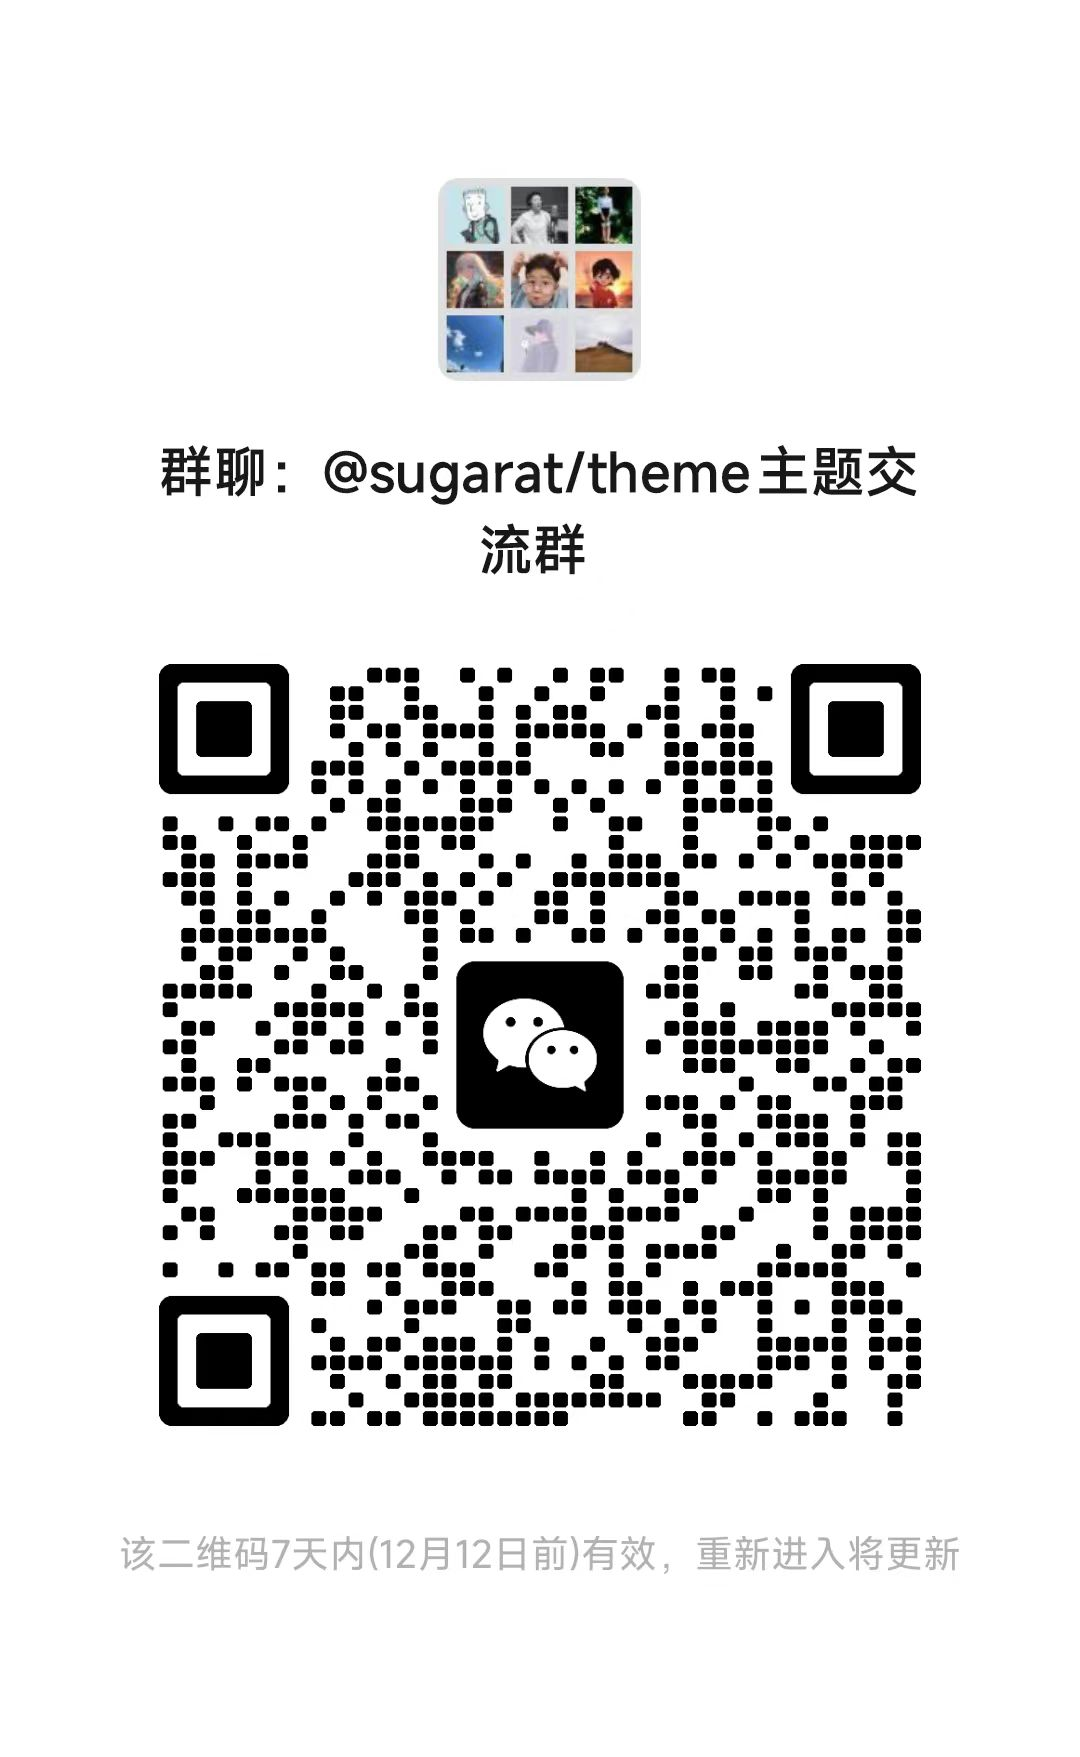
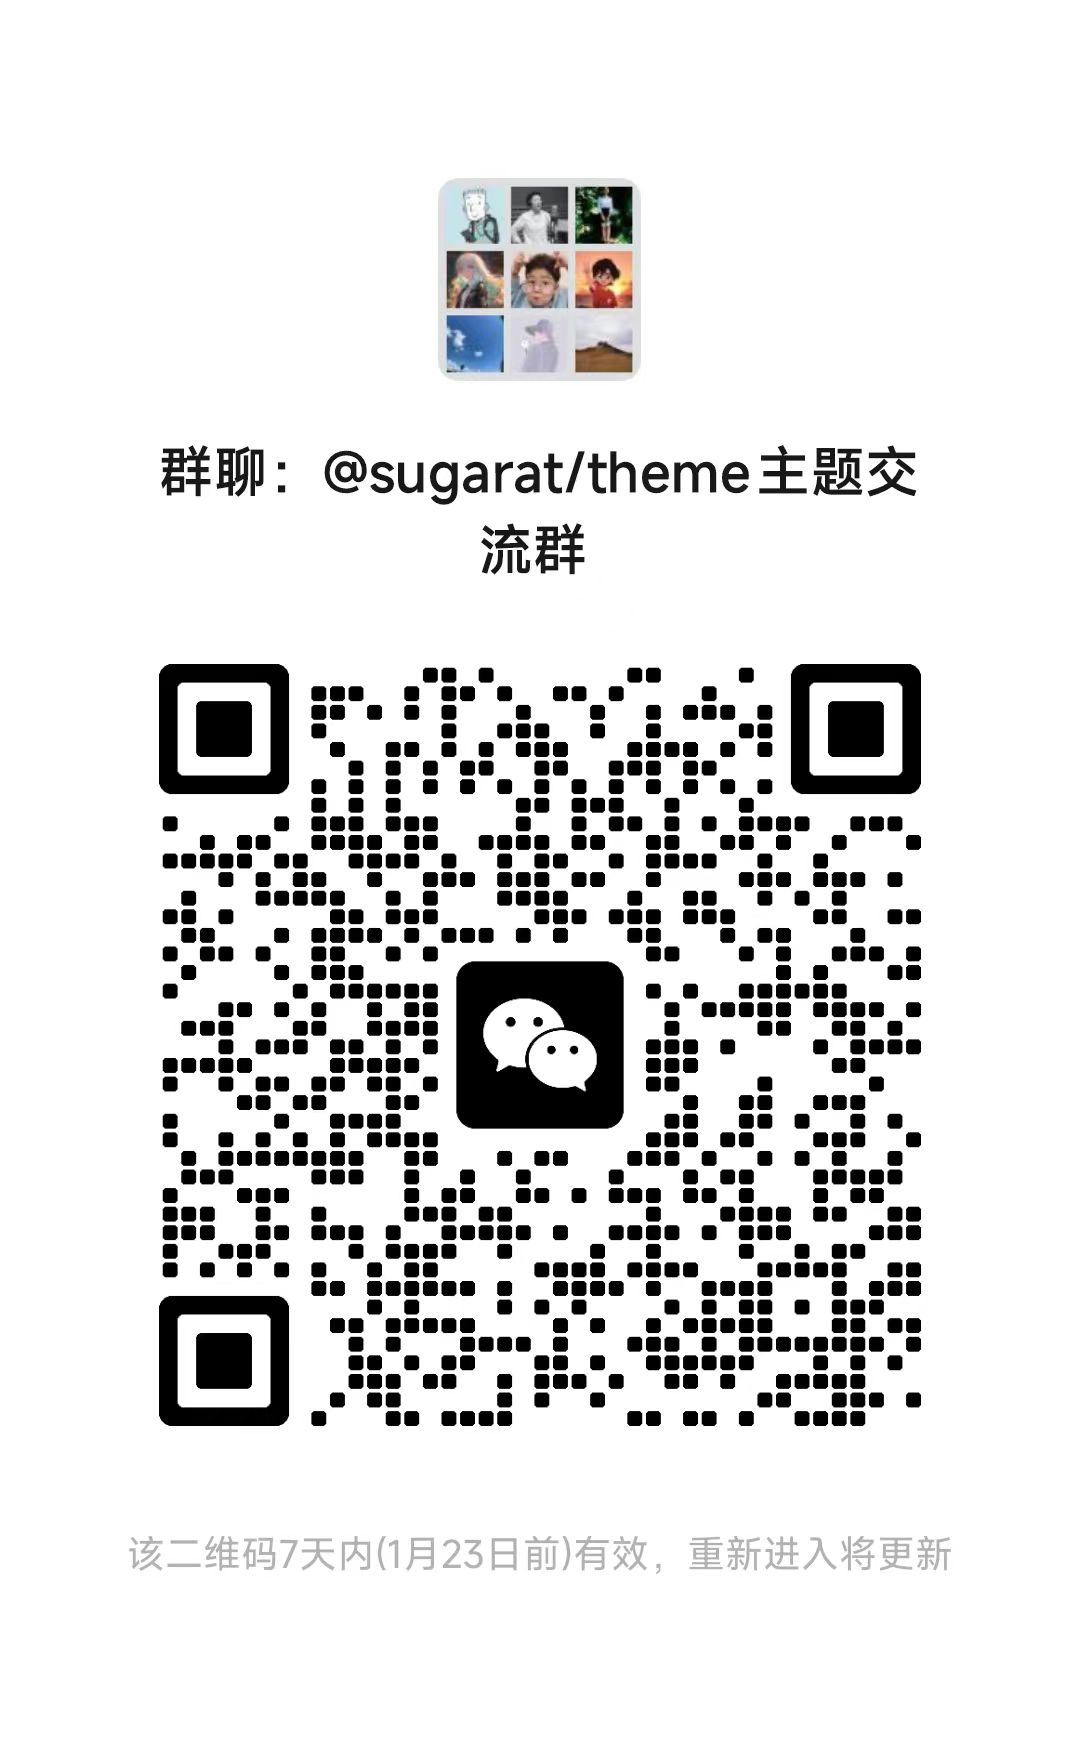
doc: 二维码更新

diff --git a/packages/blogpress/.vitepress/config.ts b/packages/blogpress/.vitepress/config.ts
@@ -61,11 +61,20 @@ const blogTheme = getThemeConfig({
       },
       {
         type: 'text',
-        content: '欢迎大家私信交流'
+        content: '欢迎大家私信&加群交流'
       },
       {
-        type: 'text',
-        content: '备注”加群“拉你一起学习'
+        type: 'button',
+        content: '关于作者',
+        link: '/aboutme'
+      },
+      {
+        type: 'button',
+        content: '加群交流',
+        props: {
+          type: 'success'
+        },
+        link: '/group',
       }
     ],
     duration: -1

diff --git a/packages/blogpress/aboutme.md b/packages/blogpress/aboutme.md
@@ -1,4 +1,5 @@
 ---
+sidebar: false
 title: 关于自己
 date: 2021-12-11
 cover: https://sugarat.top/mp-code.png
@@ -6,23 +7,30 @@ tags:
  - 其它
 ---
 
-# 关于自己
+# 关于我
 
 ---
 
 99年出生，标准的理工男一枚,毕业于([西南石油大学](https://www.swpu.edu.cn/)),热爱开源与知识分享
 
-目前就职于 🛵**美团**🛵 (前端打杂)
+目前就职于 🛵**美团**🛵
 
-## :sparkles:当下
 ![图片](https://img.cdn.sugarat.top/mdImg/MTYwNDcyMTQ4NTMyOA==604721485328)
 
-巩固自己的基础知识，完善博客中规划的剩余内容
+## :sparkles:在做什么
+### 公司
+* 2023.11 - ing：[低代码](https://lowcode-engine.cn/)
+* 2022.11 - 2023.10：[大前端 DevOps](https://tech.meituan.com/2023/12/29/the-evolution-of-terminals-from-standardization-to-digitalization.html)
+* 2021.07 - 2022.11：[研发框架：Rome](https://tech.meituan.com/2023/08/03/meituan-rome-practice.html)
+* 2021.07 - 2022.11：[业务产品：开店宝](https://ecom.meituan.com)
 
-提升技术深度
+### 开源
+* 2023.01 - ing：VitePress 博客主题：[@sugarat/theme主题](https://theme.sugarat.top/)
+* 2019.0 - ing：Web应用：[EasyPicker](https://ep2.sugarat.top/)
+* 。。。
 
-## :rocket:未来
-沉淀技术,广度与深度3/7分，打磨自己做的一些小应用,确定自己最终深挖的领域
+## :rocket:当下
+沉淀技术，广度与深度3/7分，打磨自己做的一些小应用，确定自己最终深挖的领域。
 
 ## :pencil:座右铭
 你的指尖,拥有改变世界的力量:smile:

diff --git a/packages/blogpress/group.md b/packages/blogpress/group.md
@@ -1,0 +1,15 @@
+---
+sidebar: false
+description: 欢迎大家加入主题交流群
+readingTime: false
+publish: false
+---
+# 加群交流
+
+欢迎大家加入主题交流群
+
+|             QQ交流群             |         微信交流群          |
+| :------------------------------: | :-------------------------: |
+| ![QQ群](/qq-scan.jpg) | ![微信群](/wechat-scan.jpg) |
+
+如扫码无法加入，可[加好友](./aboutme.md)备注“主题”，我拉你进群
